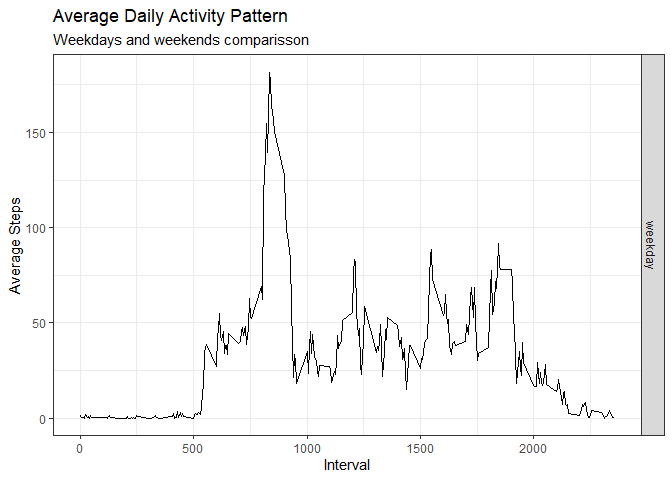
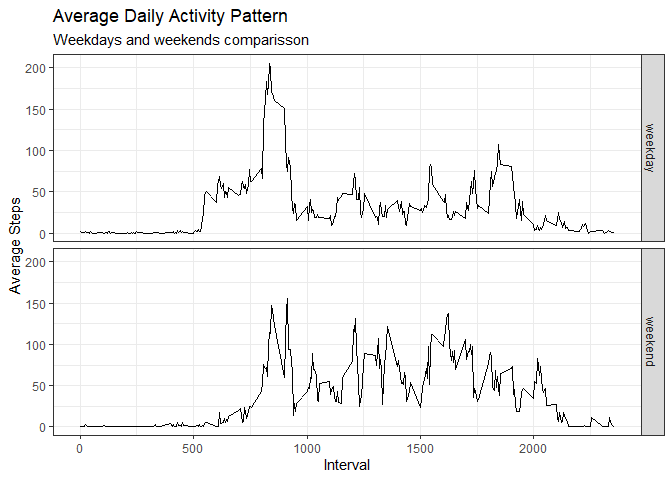
Solved the weekends problem

diff --git a/PA1_template.md b/PA1_template.md
@@ -206,8 +206,8 @@ weekday or not.
     new_dat <- mutate(new_dat, Day = as.factor(Day))
     summary(new_dat$Day)
 
-    ## weekday 
-    ##   17568
+    ## weekday weekend 
+    ##   12960    4608
 
 Now me can compare the pattern for weekdays and weekends using the
 average number of steps per interval across all days.
